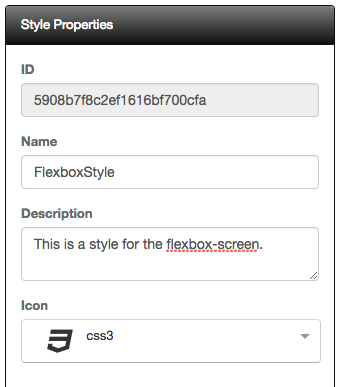
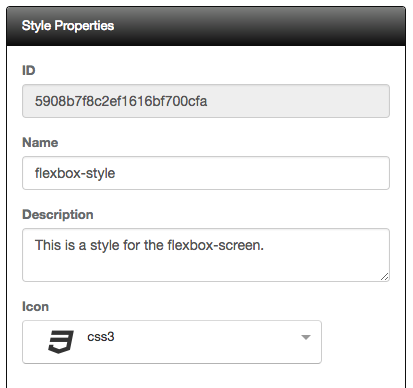
Started working on the Flexbox Screen Tutorial.

diff --git a/docs/tutorials/flexbox-screen.md b/docs/tutorials/flexbox-screen.md
@@ -60,13 +60,15 @@ Let's get started.
 
 ![Tutorial Project New Screen](../assets/images/tutorials/tutorial-project-new-screen.png)
 
-10) Name the screen, `navigation-screen`. Add any description and pick any icon you wish for the screen. You can add any tags you like to the screen. You should have something that looks like the following:
+10) Name the screen, `flexbox-screen`. Add any description and pick any icon you wish for the screen. You can add any tags you like to the screen. You should have something that looks like the following:
 
 ![Tutorial Screen Properties](../assets/images/tutorials/tutorial-flexbox-screen-properties.png)
 
 11) Clicking save will navigate you to the designer.
 
-12) Now we are ready to start building our layout. There are a total of seven elements that we will use. We will create each individually using an animation that you can follow along.
+12) Under the *Settings* tab select the flexbox-style style under the Screen Styles section.
+
+13) Now we are ready to start building our layout. There are a total of seven elements that we will use. We will create each individually using an animation that you can follow along.
 
 ![Tutorial Flexbox Animation](../assets/images/tutorials/tutorial-flexbox-screen.gif)
 
@@ -82,9 +84,9 @@ ARTICLE | MAIN | flex-row-3 align-items-center justify-content-center | article 
 ASIDE | MAIN | flex-row-1 | background-color: mistyrose;
 FOOTER | DIV | flex-row-none justify-content-end | footer content here...
 
-13) Save you work.
+14) Save you work.
 
-14) Click on the Preview button and you should see your layout like the following:
+15) Click on the Preview button and you should see your layout like the following:
 
 ![Tutorial Flexbox Preview](../assets/images/tutorials/tutorial-flexbox-preview.png)
 
